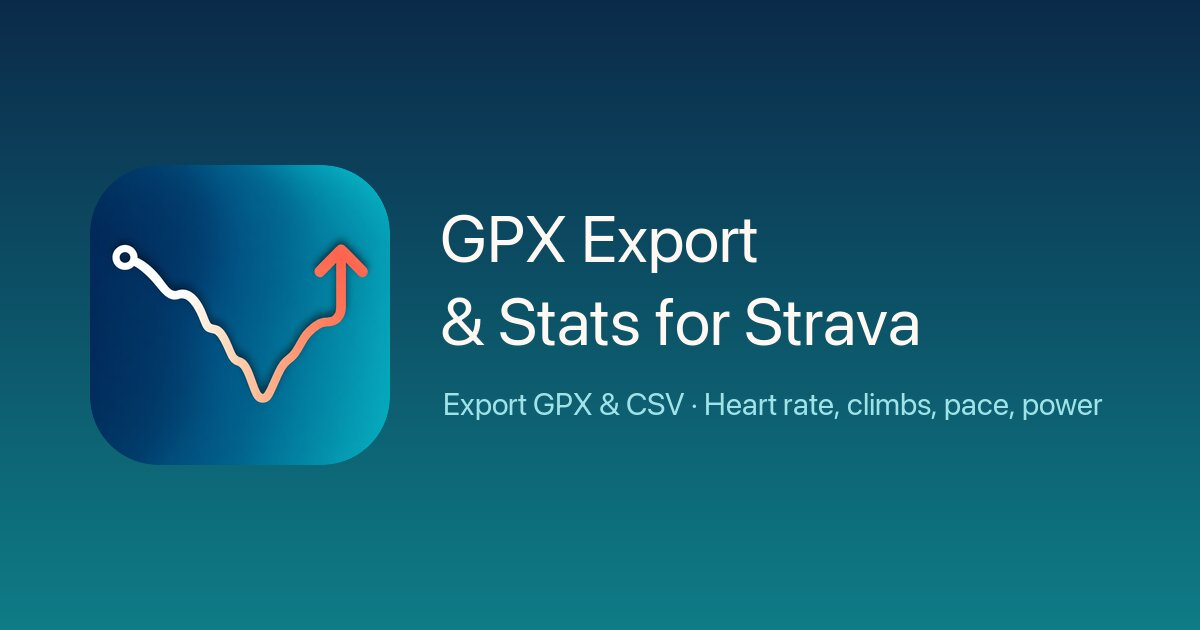
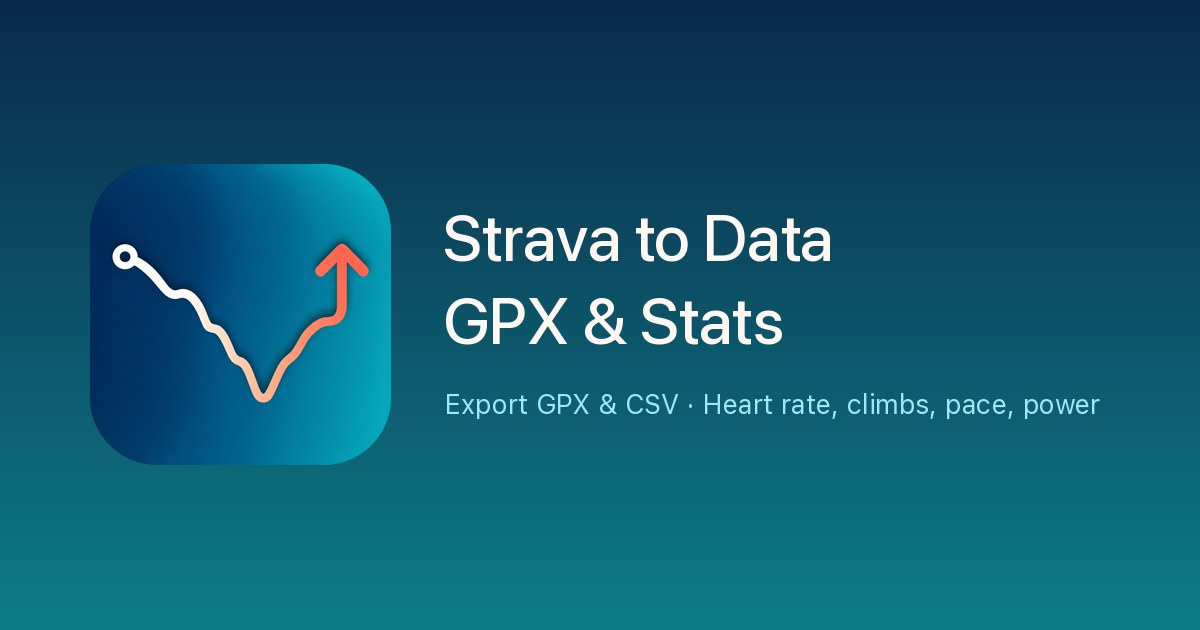
Rename the app to Strava to Data on the website
Use the new App Store name Strava to Data: GPX & Stats and the Pro brand
Strava to Data Pro in titles, headings, meta tags, JSON-LD, FAQ, privacy,
terms and support. Regenerate the social preview image with the new name,
update the GPX creator line in screenshot 8 to match the app, and keep the
header brand and button on one line on 320 px screens.

diff --git a/support.html b/support.html
@@ -3,12 +3,12 @@
 <head>
 <meta charset="utf-8">
 <meta name="viewport" content="width=device-width, initial-scale=1, viewport-fit=cover">
-<title>Support – GPX Export &amp; Stats for Strava</title>
-<meta name="description" content="Help for the iPhone app GPX Export & Stats for Strava: logging in, exports, Apple Health, GPX Export Pro subscriptions, restoring purchases and contact.">
+<title>Support – Strava to Data: GPX &amp; Stats</title>
+<meta name="description" content="Help for the iPhone app Strava to Data: GPX & Stats: logging in, exports, Apple Health, Strava to Data Pro subscriptions, restoring purchases and contact.">
 <link rel="canonical" href="https://punnerud.github.io/gpx-export/support.html">
 <meta name="theme-color" content="#0B2A4A">
 <meta property="og:type" content="website">
-<meta property="og:title" content="Support – GPX Export &amp; Stats for Strava">
+<meta property="og:title" content="Support – Strava to Data: GPX &amp; Stats">
 <meta property="og:description" content="Help with logging in, exports, Apple Health, subscriptions and restoring purchases.">
 <meta property="og:url" content="https://punnerud.github.io/gpx-export/support.html">
 <meta property="og:image" content="https://punnerud.github.io/gpx-export/assets/og-image.jpg">
@@ -24,7 +24,7 @@
   <div class="wrap">
     <a class="brand" href="./">
       <img src="assets/icon.png" alt="" width="34" height="34">
-      <span>GPX Export</span>
+      <span>Strava to Data</span>
     </a>
     <nav class="nav" aria-label="Main">
       <a class="hide-sm" href="privacy.html">Privacy</a>
@@ -36,7 +36,7 @@
 
 <main id="main" class="doc">
   <h1>Support</h1>
-  <p class="meta">GPX Export &amp; Stats for Strava · iPhone app · Current version 1.3 · Requires iOS 15.6 or later</p>
+  <p class="meta">Strava to Data: GPX &amp; Stats · iPhone app · Current version 1.3 · Requires iOS 15.6 or later</p>
 
   <div class="contact-box">
     <p><strong>Need help?</strong> Email <a href="mailto:morten@punnerud.net?subject=GPX%20Export%20support">morten@punnerud.net</a>.</p>
@@ -60,7 +60,7 @@
     </details>
     <details>
       <summary>I use "Continue with Google". Does that work?</summary>
-      <p>Yes. The whole Google sign-in stays inside the app's login screen and returns you to Strava there, even if you have the Strava app installed. If you end up in the Strava app or in Safari instead, switch back to GPX Export: it checks again whether you are logged in when it becomes active. If it still does not work, tap <em>Log out</em>, then log in again with your Strava email and password.</p>
+      <p>Yes. The whole Google sign-in stays inside the app's login screen and returns you to Strava there, even if you have the Strava app installed. If you end up in the Strava app or in Safari instead, switch back to Strava to Data: it checks again whether you are logged in when it becomes active. If it still does not work, tap <em>Log out</em>, then log in again with your Strava email and password.</p>
     </details>
     <details>
       <summary>The login page is blank or keeps loading</summary>
@@ -76,7 +76,7 @@
     </details>
     <details>
       <summary>It used to work, and now it doesn't</summary>
-      <p>Strava may have changed its website. Please email us with a link to the activity; problems like this are fixed in an app update, so also check the App Store for a newer version of GPX Export.</p>
+      <p>Strava may have changed its website. Please email us with a link to the activity; problems like this are fixed in an app update, so also check the App Store for a newer version of Strava to Data.</p>
     </details>
     <details>
       <summary>How do I see older activities?</summary>
@@ -104,11 +104,11 @@
     </details>
     <details>
       <summary>It says no heart rate was found</summary>
-      <p>The app needs a continuous recording during the activity (a workout), not just occasional background readings. Also check that access is allowed in the Health app (Profile → Apps → GPX Export) or in Settings → Privacy &amp; Security → Health.</p>
+      <p>The app needs a continuous recording during the activity (a workout), not just occasional background readings. Also check that access is allowed in the Health app (Profile → Apps → Strava to Data) or in Settings → Privacy &amp; Security → Health.</p>
     </details>
   </div>
 
-  <h2 id="pro">GPX Export Pro and subscriptions</h2>
+  <h2 id="pro">Strava to Data Pro and subscriptions</h2>
   <div class="faq">
     <details open>
       <summary>What is free, and what does Pro add?</summary>
@@ -120,11 +120,11 @@
     </details>
     <details>
       <summary>How do I manage or cancel my subscription?</summary>
-      <p>Open <strong>Settings</strong> on your iPhone, tap your name, then <strong>Subscriptions</strong>, and choose <strong>GPX Export Pro</strong>. You can also get there from the app: <em>Your profile → Manage Subscription</em>. There you can switch between monthly and yearly or tap <strong>Cancel Subscription</strong>. Cancel at least 24 hours before the end of the current period to avoid the next charge. You keep Pro until the period ends. Deleting the app does not cancel the subscription.</p>
+      <p>Open <strong>Settings</strong> on your iPhone, tap your name, then <strong>Subscriptions</strong>, and choose <strong>Strava to Data Pro</strong>. You can also get there from the app: <em>Your profile → Manage Subscription</em>. There you can switch between monthly and yearly or tap <strong>Cancel Subscription</strong>. Cancel at least 24 hours before the end of the current period to avoid the next charge. You keep Pro until the period ends. Deleting the app does not cancel the subscription.</p>
     </details>
     <details>
       <summary>How does the free trial work?</summary>
-      <p>Both plans, monthly and yearly, start with a 2-week free trial with full access to Pro. Apple gives one free trial per Apple Account (Apple ID) for GPX Export Pro, so if you have already used a free trial for it, the plan starts right away at its normal price. The Pro screen in the app shows whether a trial is available before you subscribe. If you allow notifications, the app reminds you 3 days and 1 day before the trial ends. To cancel, open <strong>Settings</strong> → your name → <strong>Subscriptions</strong> → <strong>GPX Export Pro</strong> (or <em>Your profile → Manage Subscription</em> in the app) and tap <strong>Cancel Subscription</strong> at least 24 hours before the trial ends. You then pay nothing and keep Pro until the trial ends. If you don't cancel, the plan you chose starts and is charged to your Apple Account when the trial ends. If you buy a subscription during the trial, the rest of the trial ends.</p>
+      <p>Both plans, monthly and yearly, start with a 2-week free trial with full access to Pro. Apple gives one free trial per Apple Account (Apple ID) for Strava to Data Pro, so if you have already used a free trial for it, the plan starts right away at its normal price. The Pro screen in the app shows whether a trial is available before you subscribe. If you allow notifications, the app reminds you 3 days and 1 day before the trial ends. To cancel, open <strong>Settings</strong> → your name → <strong>Subscriptions</strong> → <strong>Strava to Data Pro</strong> (or <em>Your profile → Manage Subscription</em> in the app) and tap <strong>Cancel Subscription</strong> at least 24 hours before the trial ends. You then pay nothing and keep Pro until the trial ends. If you don't cancel, the plan you chose starts and is charged to your Apple Account when the trial ends. If you buy a subscription during the trial, the rest of the trial ends.</p>
     </details>
     <details>
       <summary>Why does the app ask to send notifications?</summary>

diff --git a/index.html b/index.html
@@ -3,23 +3,23 @@
 <head>
 <meta charset="utf-8">
 <meta name="viewport" content="width=device-width, initial-scale=1, viewport-fit=cover">
-<title>GPX Export &amp; Stats for Strava – iPhone app</title>
+<title>Strava to Data: GPX &amp; Stats – iPhone app</title>
 <meta name="description" content="Export your Strava activities to GPX and CSV, and see heart rate zones, climbs, pace, power and more. An iPhone app that does everything on your device. Export is always free.">
 <link rel="canonical" href="https://punnerud.github.io/gpx-export/">
 <meta name="theme-color" content="#0B2A4A">
 <meta name="apple-itunes-app" content="app-id=6741417217">
 
 <meta property="og:type" content="website">
-<meta property="og:site_name" content="GPX Export &amp; Stats for Strava">
-<meta property="og:title" content="GPX Export &amp; Stats for Strava">
+<meta property="og:site_name" content="Strava to Data">
+<meta property="og:title" content="Strava to Data: GPX &amp; Stats">
 <meta property="og:description" content="Export your Strava activities to GPX and CSV, and see heart rate zones, climbs, pace, power and more – right on your iPhone.">
 <meta property="og:url" content="https://punnerud.github.io/gpx-export/">
 <meta property="og:image" content="https://punnerud.github.io/gpx-export/assets/og-image.jpg">
 <meta property="og:image:width" content="1200">
 <meta property="og:image:height" content="630">
-<meta property="og:image:alt" content="GPX Export &amp; Stats for Strava app icon and name">
+<meta property="og:image:alt" content="Strava to Data: GPX &amp; Stats app icon and name">
 <meta name="twitter:card" content="summary_large_image">
-<meta name="twitter:title" content="GPX Export &amp; Stats for Strava">
+<meta name="twitter:title" content="Strava to Data: GPX &amp; Stats">
 <meta name="twitter:description" content="Export your Strava activities to GPX and CSV, and see heart rate zones, climbs, pace, power and more – right on your iPhone.">
 <meta name="twitter:image" content="https://punnerud.github.io/gpx-export/assets/og-image.jpg">
 
@@ -32,7 +32,7 @@
 {
   "@context": "https://schema.org",
   "@type": "SoftwareApplication",
-  "name": "GPX Export & Stats for Strava",
+  "name": "Strava to Data: GPX & Stats",
   "operatingSystem": "iOS 15.6 or later",
   "applicationCategory": "HealthAndFitnessApplication",
   "url": "https://punnerud.github.io/gpx-export/",
@@ -40,8 +40,8 @@
   "image": "https://punnerud.github.io/gpx-export/assets/icon.png",
   "offers": [
     { "@type": "Offer", "name": "Free", "price": "0", "priceCurrency": "USD" },
-    { "@type": "Offer", "name": "GPX Export Pro (monthly)", "price": "2.99", "priceCurrency": "USD" },
-    { "@type": "Offer", "name": "GPX Export Pro (yearly)", "price": "29.99", "priceCurrency": "USD" }
+    { "@type": "Offer", "name": "Strava to Data Pro (monthly)", "price": "2.99", "priceCurrency": "USD" },
+    { "@type": "Offer", "name": "Strava to Data Pro (yearly)", "price": "29.99", "priceCurrency": "USD" }
   ]
 }
 </script>
@@ -52,9 +52,9 @@
 <header class="hero">
   <div class="site-header">
     <div class="wrap">
-      <a class="brand" href="./" aria-label="GPX Export home">
+      <a class="brand" href="./" aria-label="Strava to Data home">
         <img src="assets/icon.png" alt="" width="34" height="34">
-        <span>GPX Export</span>
+        <span>Strava to Data</span>
       </a>
       <nav class="nav" aria-label="Main">
         <a class="hide-sm" href="#features">Features</a>
@@ -70,7 +70,7 @@
       <div class="hero-copy">
         <img class="hero-icon" src="assets/icon.png" alt="App icon: a route line climbing to an arrow" width="96" height="96">
         <span class="eyebrow">For iPhone · Runs, rides, hikes and skiing</span>
-        <h1>GPX Export <span class="amp">&amp;</span> Stats for&nbsp;Strava</h1>
+        <h1>Strava to Data: GPX&nbsp;<span class="amp">&amp;</span>&nbsp;Stats</h1>
         <p class="tagline">Export your Strava activities to GPX and CSV in a tap, and see the story behind every run, ride, hike and ski: heart rate zones, climbs, pace, power and more. Everything is calculated on your iPhone.</p>
         <div class="cta-row">
           <a class="btn btn-store" href="https://apps.apple.com/app/id6741417217">
@@ -130,7 +130,7 @@
       <div class="section-head">
         <span class="kicker">Features</span>
         <h2 id="features-title">Your routes, analyzed</h2>
-        <p>Strava records it. GPX Export shows you what it means and lets you take it anywhere.</p>
+        <p>Strava records it. Strava to Data shows you what it means and lets you take it anywhere.</p>
       </div>
 
       <div class="feature">
@@ -316,7 +316,7 @@
 
         <article class="plan plan-pro" aria-labelledby="plan-pro">
           <span class="ribbon">2 weeks free on either plan</span>
-          <h3 id="plan-pro">GPX Export Pro</h3>
+          <h3 id="plan-pro">Strava to Data Pro</h3>
           <p class="price">$2.99 <small>/ month</small></p>
           <p class="alt-price">or $29.99 / year – about two months free</p>
           <ul class="ticks">
@@ -363,7 +363,7 @@
         </details>
         <details>
           <summary>How do I cancel my subscription?</summary>
-          <p>Open <strong>Settings</strong> on your iPhone, tap your name, then <strong>Subscriptions</strong>, choose GPX Export Pro and tap <strong>Cancel Subscription</strong>. Cancel at least 24 hours before the end of the current period to avoid being charged for the next one. You keep Pro until the period ends. Deleting the app does not cancel the subscription.</p>
+          <p>Open <strong>Settings</strong> on your iPhone, tap your name, then <strong>Subscriptions</strong>, choose Strava to Data Pro and tap <strong>Cancel Subscription</strong>. Cancel at least 24 hours before the end of the current period to avoid being charged for the next one. You keep Pro until the period ends. Deleting the app does not cancel the subscription.</p>
         </details>
         <details>
           <summary>I bought Pro on another iPhone. How do I get it back?</summary>
@@ -371,7 +371,7 @@
         </details>
         <details>
           <summary>Is this an official Strava app?</summary>
-          <p>No. GPX Export &amp; Stats for Strava is made by an independent developer and is not affiliated with or endorsed by Strava, Inc.</p>
+          <p>No. Strava to Data: GPX &amp; Stats is made by an independent developer and is not affiliated with or endorsed by Strava, Inc.</p>
         </details>
       </div>
       <p class="fineprint">More help on the <a href="support.html">support page</a>.</p>

diff --git a/privacy.html b/privacy.html
@@ -3,12 +3,12 @@
 <head>
 <meta charset="utf-8">
 <meta name="viewport" content="width=device-width, initial-scale=1, viewport-fit=cover">
-<title>Privacy Policy – GPX Export &amp; Stats for Strava</title>
-<meta name="description" content="Privacy policy for the iPhone app GPX Export & Stats for Strava: no data collected, no analytics, no tracking. Covers the Strava login, Apple Health, subscriptions and on-device storage.">
+<title>Privacy Policy – Strava to Data: GPX &amp; Stats</title>
+<meta name="description" content="Privacy policy for the iPhone app Strava to Data: GPX & Stats: no data collected, no analytics, no tracking. Covers the Strava login, Apple Health, subscriptions and on-device storage.">
 <link rel="canonical" href="https://punnerud.github.io/gpx-export/privacy.html">
 <meta name="theme-color" content="#0B2A4A">
 <meta property="og:type" content="article">
-<meta property="og:title" content="Privacy Policy – GPX Export &amp; Stats for Strava">
+<meta property="og:title" content="Privacy Policy – Strava to Data: GPX &amp; Stats">
 <meta property="og:description" content="No data collected, no analytics, no tracking. How the app handles your Strava login, Apple Health heart rate and subscriptions.">
 <meta property="og:url" content="https://punnerud.github.io/gpx-export/privacy.html">
 <meta property="og:image" content="https://punnerud.github.io/gpx-export/assets/og-image.jpg">
@@ -24,7 +24,7 @@
   <div class="wrap">
     <a class="brand" href="./">
       <img src="assets/icon.png" alt="" width="34" height="34">
-      <span>GPX Export</span>
+      <span>Strava to Data</span>
     </a>
     <nav class="nav" aria-label="Main">
       <a class="hide-sm" href="support.html">Support</a>
@@ -36,7 +36,7 @@
 
 <main id="main" class="doc">
   <h1>Privacy Policy</h1>
-  <p class="meta">GPX Export &amp; Stats for Strava (iPhone app, version 1.3 and later) · Effective 11 October 2026</p>
+  <p class="meta">Strava to Data: GPX &amp; Stats (iPhone app, version 1.3 and later) · Effective 11 October 2026</p>
 
   <div class="summary">
     <p><strong>Short version:</strong> the app does not collect any data. There is no account with us, no ads, no analytics and no tracking. Your activities are read from strava.com with your own login and analyzed on your iPhone. Subscriptions are handled entirely by Apple. The app sends nothing to the developer. The only personal data we ever receive is what you choose to send us yourself, by email or through the feedback form (see <a href="#contacting">Email and feedback</a>).</p>
@@ -58,7 +58,7 @@
   </ul>
 
   <h2 id="who">Who we are</h2>
-  <p>GPX Export &amp; Stats for Strava ("the app") is made by Morten Punnerud-Engelstad, an independent developer, who is responsible for this policy. Contact: <a href="mailto:morten@punnerud.net">morten@punnerud.net</a>.</p>
+  <p>Strava to Data: GPX &amp; Stats ("the app") is made by Morten Punnerud-Engelstad, an independent developer, who is responsible for this policy. Contact: <a href="mailto:morten@punnerud.net">morten@punnerud.net</a>.</p>
 
   <h2 id="collect">What we collect</h2>
   <p>Nothing through the app. The developer runs no servers for the app and receives no personal data from it. The app contains no analytics, advertising, crash reporting or tracking tools, and no third-party SDKs. It does not track you across apps or websites. In Apple's App Privacy terms: <strong>Data Not Collected</strong>. If you contact us by email or send feedback, we receive what you send; this is described under <a href="#contacting">Email and feedback</a>.</p>
@@ -82,7 +82,7 @@
 
   <h2 id="purchases">Subscriptions and purchases</h2>
   <ul>
-    <li>GPX Export Pro is an optional auto-renewable subscription sold through Apple's App Store. Apple processes the payment with your Apple Account.</li>
+    <li>Strava to Data Pro is an optional auto-renewable subscription sold through Apple's App Store. Apple processes the payment with your Apple Account.</li>
     <li>The developer never receives your name, email address, payment card or other payment details. Apple shares only sales reports with developers, which do not identify you.</li>
     <li>The app uses Apple's StoreKit to check on your iPhone whether you have an active subscription. This check happens between your device and Apple. There is no server of ours involved and no account with us.</li>
     <li>Apple's handling of purchase data is covered by <a href="https://www.apple.com/legal/privacy/">Apple's privacy policy</a>. You manage or cancel the subscription in Settings → [your name] → Subscriptions.</li>
@@ -90,7 +90,7 @@
 
   <h2 id="notifications">Notifications (trial reminders)</h2>
   <ul>
-    <li>If you start a free trial of GPX Export Pro, the app can remind you before it ends: 3 days and 1 day before the trial ends.</li>
+    <li>If you start a free trial of Strava to Data Pro, the app can remind you before it ends: 3 days and 1 day before the trial ends.</li>
     <li>These are <strong>local notifications</strong>, scheduled on your iPhone with iOS. There is no push server, no device token is created or sent, and no data leaves your iPhone. The only information used is the trial end date that StoreKit reports on your device.</li>
     <li>The app asks for permission only right after you start a trial, never when you open the app. If you say no, the app works the same, just without reminders.</li>
     <li>Reminders are removed when the app sees that you cancelled (the next time you open it), when the trial ends or when your subscription changes. You can turn notifications off at any time in Settings → Notifications → Strava to Data.</li>

diff --git a/terms.html b/terms.html
@@ -3,13 +3,13 @@
 <head>
 <meta charset="utf-8">
 <meta name="viewport" content="width=device-width, initial-scale=1, viewport-fit=cover">
-<title>Terms of Use – GPX Export &amp; Stats for Strava</title>
-<meta name="description" content="Terms of use for GPX Export & Stats for Strava and the GPX Export Pro subscription: Apple's standard EULA, auto-renewal, free trial and cancellation.">
+<title>Terms of Use – Strava to Data: GPX &amp; Stats</title>
+<meta name="description" content="Terms of use for Strava to Data: GPX & Stats and the Strava to Data Pro subscription: Apple's standard EULA, auto-renewal, free trial and cancellation.">
 <link rel="canonical" href="https://punnerud.github.io/gpx-export/terms.html">
 <meta name="theme-color" content="#0B2A4A">
 <meta property="og:type" content="article">
-<meta property="og:title" content="Terms of Use – GPX Export &amp; Stats for Strava">
-<meta property="og:description" content="Terms for the app and the GPX Export Pro subscription.">
+<meta property="og:title" content="Terms of Use – Strava to Data: GPX &amp; Stats">
+<meta property="og:description" content="Terms for the app and the Strava to Data Pro subscription.">
 <meta property="og:url" content="https://punnerud.github.io/gpx-export/terms.html">
 <meta property="og:image" content="https://punnerud.github.io/gpx-export/assets/og-image.jpg">
 <meta name="twitter:card" content="summary_large_image">
@@ -24,7 +24,7 @@
   <div class="wrap">
     <a class="brand" href="./">
       <img src="assets/icon.png" alt="" width="34" height="34">
-      <span>GPX Export</span>
+      <span>Strava to Data</span>
     </a>
     <nav class="nav" aria-label="Main">
       <a class="hide-sm" href="privacy.html">Privacy</a>
@@ -36,19 +36,19 @@
 
 <main id="main" class="doc">
   <h1>Terms of Use</h1>
-  <p class="meta">GPX Export &amp; Stats for Strava (iPhone app) · Effective 11 October 2026</p>
+  <p class="meta">Strava to Data: GPX &amp; Stats (iPhone app) · Effective 11 October 2026</p>
 
   <div class="summary">
-    <p>Your use of the app is governed by <a href="https://www.apple.com/legal/internet-services/itunes/dev/stdeula/">Apple's standard Licensed Application End User License Agreement (EULA)</a>. The points below add the details of the optional GPX Export Pro subscription and a few app-specific notes. If anything here conflicts with Apple's EULA, the EULA applies.</p>
+    <p>Your use of the app is governed by <a href="https://www.apple.com/legal/internet-services/itunes/dev/stdeula/">Apple's standard Licensed Application End User License Agreement (EULA)</a>. The points below add the details of the optional Strava to Data Pro subscription and a few app-specific notes. If anything here conflicts with Apple's EULA, the EULA applies.</p>
   </div>
 
-  <h2 id="subscription">GPX Export Pro subscription</h2>
+  <h2 id="subscription">Strava to Data Pro subscription</h2>
   <ul>
     <li><strong>What you get:</strong> all analysis reports and the AI training analysis prompt for the full length of every activity. Without Pro, the analysis covers the first 10 minutes of each activity. GPX and CSV export, the map and stats, and demo mode are free and are not part of the subscription.</li>
     <li><strong>Plans:</strong> monthly ($2.99) or yearly ($29.99), in one subscription group. Prices are shown in your local currency in the app and on the App Store before you buy, and may vary by country.</li>
     <li><strong>Payment:</strong> payment is charged to your Apple Account at confirmation of purchase, or when the free trial ends.</li>
     <li><strong>Auto-renewal:</strong> the subscription renews automatically at the same price and period unless it is cancelled at least 24 hours before the end of the current period. Your account is charged for renewal within 24 hours before the end of the current period. If the price changes, Apple will notify you in advance as required.</li>
-    <li><strong>Free trial:</strong> both the monthly and the yearly plan start with a 2-week free trial for eligible new subscribers. Eligibility is decided by Apple: one free trial per Apple Account for the GPX Export Pro subscription group, whichever plan you choose. When the trial ends, the plan you chose starts and is charged to your Apple Account, unless you cancel at least 24 hours before the end of the trial. Any unused portion of a free trial is forfeited when you purchase a subscription.</li>
+    <li><strong>Free trial:</strong> both the monthly and the yearly plan start with a 2-week free trial for eligible new subscribers. Eligibility is decided by Apple: one free trial per Apple Account for the Strava to Data Pro subscription group, whichever plan you choose. When the trial ends, the plan you chose starts and is charged to your Apple Account, unless you cancel at least 24 hours before the end of the trial. Any unused portion of a free trial is forfeited when you purchase a subscription.</li>
     <li><strong>Manage and cancel:</strong> manage or turn off auto-renewal in your Apple Account settings (Settings → [your name] → Subscriptions) after purchase. Cancelling stops the next renewal; you keep Pro until the end of the period you have paid for. Deleting the app does not cancel the subscription.</li>
     <li><strong>Refunds:</strong> purchases are processed by Apple. Refund requests are handled by Apple at <a href="https://reportaproblem.apple.com">reportaproblem.apple.com</a>.</li>
     <li><strong>Restore:</strong> your subscription is tied to your Apple Account. Use <em>Restore Purchases</em> in the app to unlock Pro on another iPhone signed in with the same Apple Account.</li>

diff --git a/assets/site.css b/assets/site.css
@@ -87,6 +87,14 @@ p { margin: 0 0 1em; }
 }
 .nav .nav-cta:hover { background: rgba(255, 255, 255, 0.22); text-decoration: none; }
 @media (max-width: 720px) { .nav .hide-sm { display: none; } }
+.brand span, .nav a { white-space: nowrap; }
+@media (max-width: 360px) {
+  .site-header .wrap { gap: 10px; }
+  .brand { gap: 8px; font-size: 15px; }
+  .brand img { width: 30px; height: 30px; border-radius: 7px; }
+  .nav { font-size: 14px; }
+  .nav .nav-cta { padding: 7px 12px; }
+}
 
 /* Light header for the document pages */
 .doc-header { border-bottom: 1px solid var(--line); background: var(--surface); }

diff --git a/404.html b/404.html
@@ -3,7 +3,7 @@
 <head>
 <meta charset="utf-8">
 <meta name="viewport" content="width=device-width, initial-scale=1">
-<title>Page not found – GPX Export &amp; Stats for Strava</title>
+<title>Page not found – Strava to Data: GPX &amp; Stats</title>
 <meta name="robots" content="noindex">
 <link rel="icon" href="/gpx-export/favicon.ico" sizes="32x32">
 <link rel="apple-touch-icon" href="/gpx-export/apple-touch-icon.png">

diff --git a/README.md b/README.md
@@ -1,6 +1,6 @@
-# GPX Export & Stats for Strava – website
+# Strava to Data: GPX & Stats – website
 
-Static website for the iPhone app **GPX Export & Stats for Strava**, served with GitHub Pages at
+Static website for the iPhone app **Strava to Data: GPX & Stats**, served with GitHub Pages at
 **https://punnerud.github.io/gpx-export/**.
 
 | Page | URL |
@@ -16,7 +16,7 @@ App Store: https://apps.apple.com/app/id6741417217
 
 - Plain HTML and one stylesheet (`assets/site.css`). No JavaScript, no build step, no external fonts or CDNs.
 - `assets/shots/` – app screenshots, 600 px wide, WebP with JPG fallback.
-- `assets/icon.png`, `assets/favicon.png`, `favicon.ico`, `apple-touch-icon.png`, `assets/og-image.jpg` – icons and the social preview image.
+- `assets/icon.png`, `assets/favicon.png`, `favicon.ico`, `apple-touch-icon.png`, `assets/og-image.jpg` – icons and the social preview image (made with `strava_appstore_media/source/og_image.py`).
 - `.nojekyll` – serve files as-is.
 
 ## Local preview
